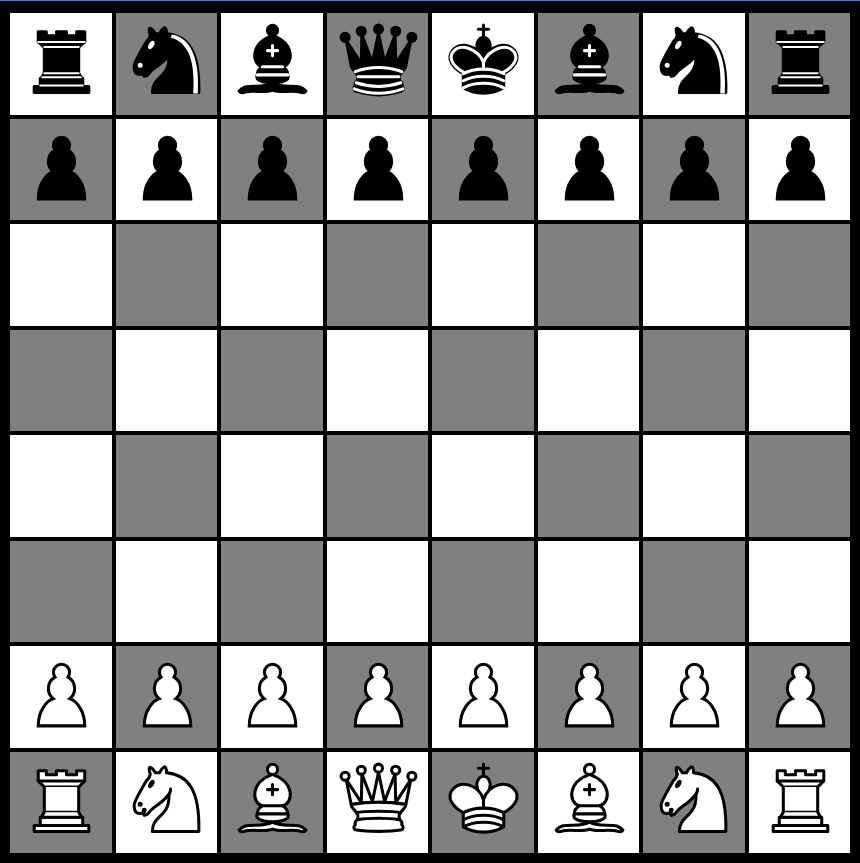
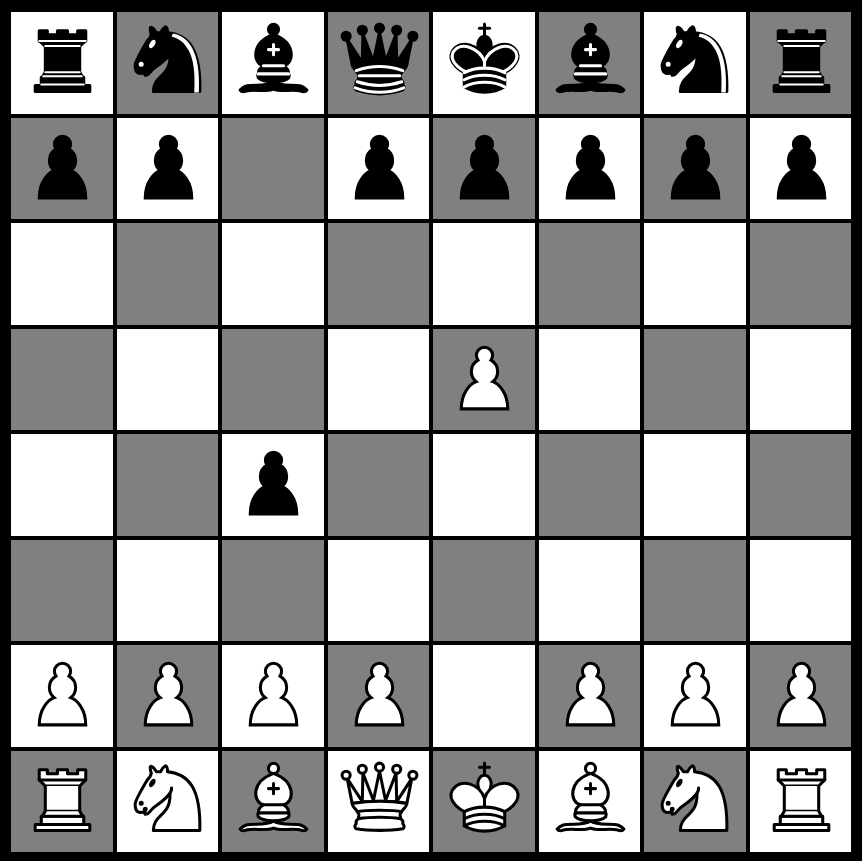
added join game functionallity

diff --git a/templates/index.html b/templates/index.html
@@ -10,16 +10,44 @@
     <div class="container">
         <div class="buttons">
             <button class="new-game" id="create" onclick="window.location.href = '/new/w'">Create Game</button>
-            <button class="join-game" id="join" onclick="join()">Join Game</button>
+            <button class="join-game" id="join" onclick="show_available()">Join Game</button>
             <button class="local-game" id="local" onclick="window.location.href = '/new/w-b'">Local Game</button>
         </div>
-        <div class="preview">
-            <img class="chessboard" src="../static/images/chessboard.png" alt="">
+        <div class="available-games hidden" id="available-games">
+            <table id="button-area">
+                
+            </table>
+        </div>
+        <div class="preview" id="chessboard">
+            <img class="chessboard" src="../static/images/chessboard2.png" alt="">
         </div>
     </div>
 </body>
 <script>
 
+    async function show_available(){
+        document.getElementById("chessboard").classList.toggle("move-over");
+        document.getElementById("available-games").classList.toggle("hidden");
+        const games_list = document.getElementById("button-area");
+
+        const response = await fetch('/available_games', {
+            method: 'GET',
+            headers: {
+                'Content-Type': 'application/json'
+            }
+        });
+
+        games_list.innerHTML = "";
+        const json = await response.json();
+        console.log(json)
+        json.forEach(element => {
+           games_list.innerHTML += `<tr><td><button class="join-button" onclick="join('${element}')">${element}</button></td></tr>`;
+        });
+    }
+
+    function join(id){
+        window.location.href = `/${id}/b`
+    }
 
 
 

diff --git a/static/index.css b/static/index.css
@@ -1,5 +1,5 @@
 :root{
-  --main-bg-color: #3b82f6;
+  --main-bg-color: #341d06;
   --main-bg-color-transparent: #2563ebe9;
 
   --bg-primary: #0a0e27;
@@ -33,7 +33,6 @@ body{
     top:5%;
     left:0%;
 }
-
 
 button{
     width: 80%;
@@ -70,12 +69,12 @@ button:hover{
     background-color: var(--button-local-game) ;
 }
 
-
 .chessboard {
     position:absolute;
     height: 90%;
     aspect-ratio: 1/1;
     top:5%;
+    z-index: 2000;
 }
 
 .preview {
@@ -83,5 +82,54 @@ button:hover{
     top:-85%;
     width: 70%;
     height: 90%;
-    left:25%
+    left:25%;
+    transition: transform 0.4s ease;
+}
+
+.preview.move-over{
+    transform: translate(30%);
+}
+
+.available-games {
+    position: absolute;
+    top:10%;
+    left:25%;
+    width: 20%;
+    aspect-ratio: 1/2;
+    overflow-y: auto;
+    overflow-x:hidden;
+    transition: transform 0.4s ease-in-out, opacity 0.2s ease;
+    z-index: 100;
+    border:1px solid rgb(105, 93, 71);
+}
+
+
+.available-games table{
+    width: 100%;
+    border-collapse: collapse;
+    table-layout: fixed;
+}
+
+.available-games tr{
+    height: 20%;
+}
+
+.available-games td{
+    width: 100%;
+    padding: 0;
+}
+
+.join-button{
+    position: relative;
+    height: 100%;
+    width: 80%;
+    left: 10%;
+    margin-bottom:5%;
+    padding: 5%;
+    background-color: var(--button-join-game);
+}
+
+.hidden {
+    transform: scale(0);
+    opacity: 0;
 }

diff --git a/static/game.css b/static/game.css
@@ -1,5 +1,5 @@
 :root{
-  --main-bg-color: #3b82f6;
+  --main-bg-color: #341d06;
   --main-bg-color-transparent: #2563ebe9;
 }
 

diff --git a/app.py b/app.py
@@ -154,6 +154,15 @@ def create_game(mode):
     return redirect(f"/{new_game.game_id}/w")
 
 
+@app.route('/available_games',methods=['GET'])
+def available_games():
+    games = list(list_of_games.keys())
+    return games
+
+
+
+
+
 @socketio.on('join_game')
 def join_game(game_id):
     join_room(game_id)
